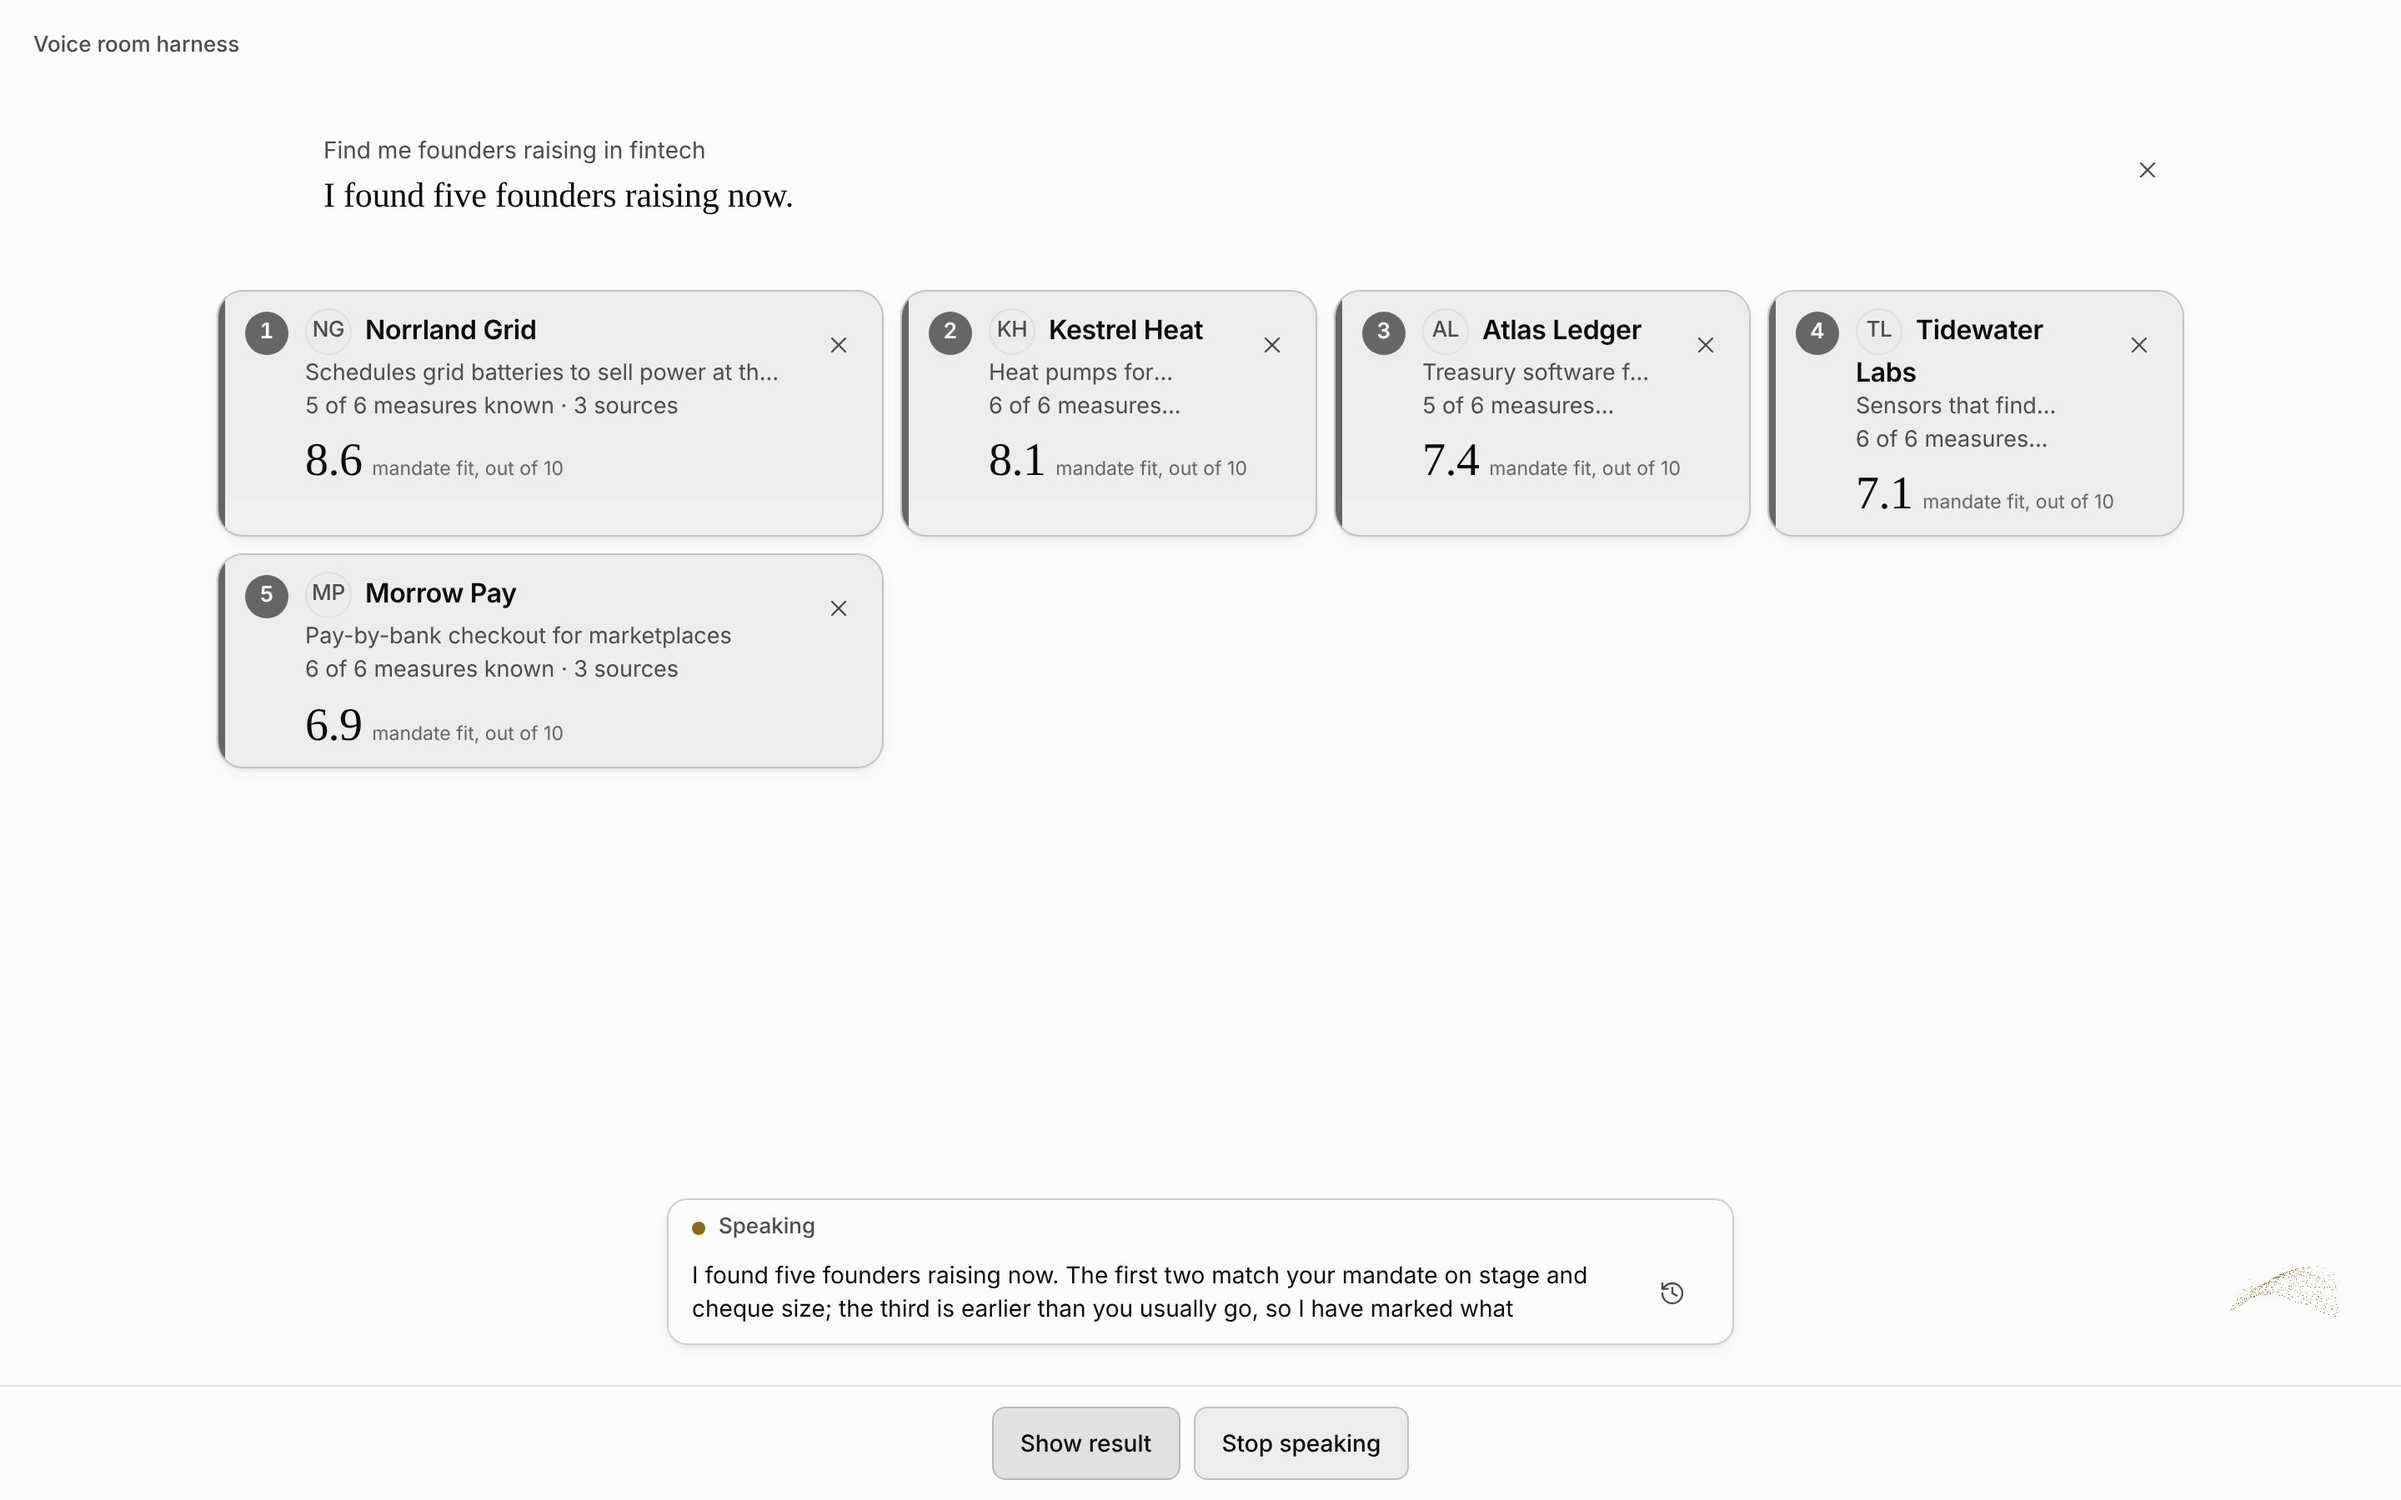
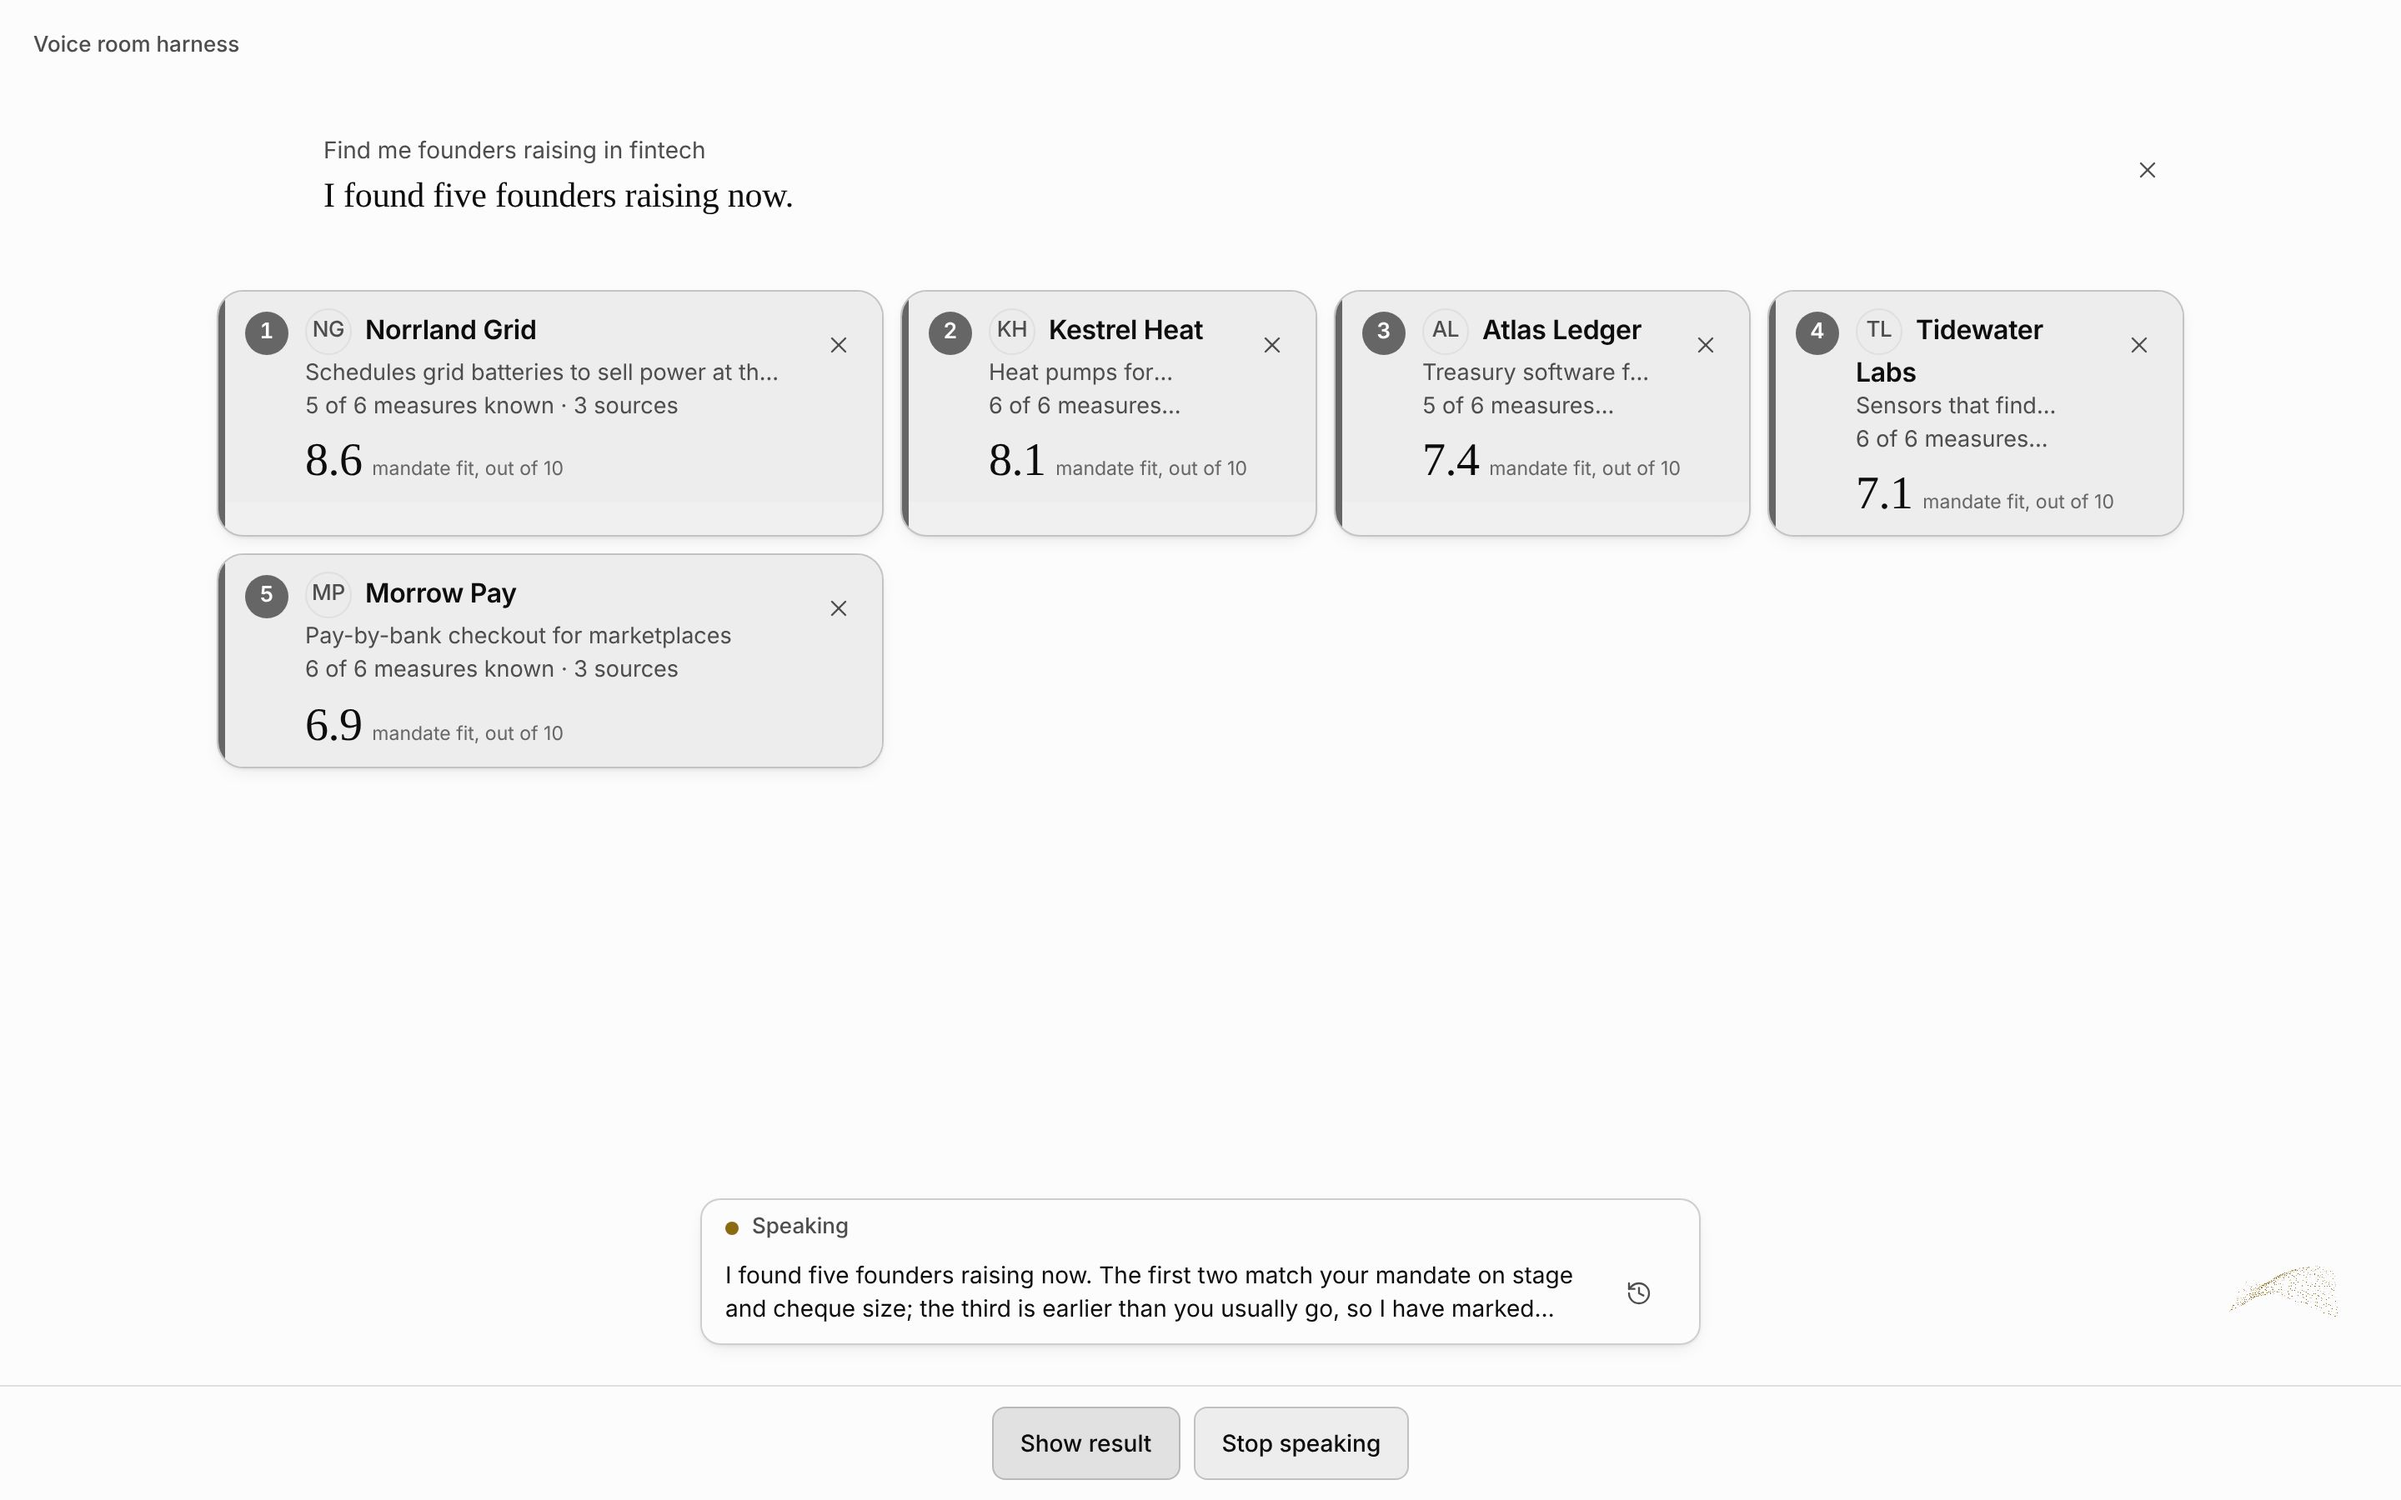
fix(web): voice room phone cards one full column; desktop caption a subtitle (~600 px)
Owner polish on decision 102 (2026-11-17):
- Phone: the voice room's result cards no longer become two-up tiles
  that dropped the one-line description, the measures line and the
  "mandate fit, out of 10" label. VoiceRoom provides FullCardsContext;
  canvasLayout(count, wide, fullCards) then never makes tiles, so each
  card is full width with its words, like desktop. Close and the card's
  own button stay >= 44 px. Elsewhere (Q page, pane) unchanged.
- Desktop: the floating caption's max width is 37.5rem (~600 px, was
  40rem), centred at the bottom; Q's corner presence, the measured
  overlay reserve and the phone caption (full width minus gutters,
  clear of Q) unchanged.
Tests: e2e voice-room-layout.spec.ts (phone single column with line,
measures and label visible, 44 px targets; caption <= 600 px and centred
on desktop, full width and clear of Q on phone; axe light/dark), vitest
answer-canvas.test.tsx and voice-room-layout.test.tsx. after-* evidence
re-taken (1440x900 and 390x844, light/dark, scale 2).

Claude-Session: https://claude.ai/code/session_01Wncmn73d4XJWmh1N9ECao7

Changed region(s): [[0.2812, 0.8089, 0.6562, 0.9022], [0.9375, 0.84, 0.9688, 0.8711]]

diff --git a/apps/web/e2e/voice-room-layout.spec.ts b/apps/web/e2e/voice-room-layout.spec.ts
@@ -194,6 +194,77 @@ test("at the end of the stage the last card's buttons sit clear of the overlay",
   expect(hit).toBe(true);
 });
 
+test("phone: the cards are one full-width column and keep their words", async ({
+  page,
+}, info) => {
+  test.skip(info.project.name !== "phone", "phone layout");
+  await open(page, "?speaking=1", "light");
+  await showResult(page);
+  const content = await boxOf(page, "[data-q-voice-content]");
+  const cards = page.locator("[data-q-voice-content] [data-ac-card]");
+  const count = await cards.count();
+  expect(count).toBeGreaterThanOrEqual(4);
+  // Owner 2026-11-17: never two-up tiles in the voice room.
+  await expect(page.locator("[data-q-voice-content] [data-tiles]")).toHaveCount(
+    0,
+  );
+  for (let n = 0; n < count; n += 1) {
+    const card = cards.nth(n);
+    const box = await card.boundingBox();
+    if (box === null) throw new Error(`no box for card ${String(n)}`);
+    expect(box.width, `card ${String(n)} width`).toBeGreaterThan(
+      content.width - 2,
+    );
+    // Its one-line description, the measures line and the score label.
+    await expect(card.locator(".cq-ac-line").first()).toBeVisible();
+    await expect(
+      card.locator(".cq-ac-line", { hasText: "of 6 measures known" }),
+    ).toBeVisible();
+    await expect(card.locator(".cq-ac-score .of")).toHaveText(
+      "mandate fit, out of 10",
+    );
+    await expect(card.locator(".cq-ac-score .of")).toBeVisible();
+    // Targets stay at least 44 px: the card's own button and its close.
+    const main = await card.locator(".cq-ac-head-main").boundingBox();
+    const close = await card.locator(".cq-ac-x").first().boundingBox();
+    if (main === null || close === null) throw new Error("no target box");
+    expect(main.height).toBeGreaterThanOrEqual(44);
+    expect(close.width).toBeGreaterThanOrEqual(44);
+    expect(close.height).toBeGreaterThanOrEqual(44);
+  }
+  // One column: every card starts at the same x.
+  const xs = await cards.evaluateAll((elements) =>
+    elements.map((element) => Math.round(element.getBoundingClientRect().x)),
+  );
+  expect(new Set(xs).size).toBe(1);
+});
+
+test("the caption reads like a subtitle: about 600 px, centred, clear of Q", async ({
+  page,
+}, info) => {
+  await open(page, "?speaking=1", "light");
+  await showResult(page);
+  // Let the caption grow to its two lines.
+  await page.waitForTimeout(3000);
+  const caption = await boxOf(page, "[data-q-voice-caption]");
+  const presence = await boxOf(page, "[data-q-voice-presence-box]");
+  const stage = await boxOf(page, "[data-q-voice-stage-body]");
+  expect(overlaps(caption, presence)).toBe(false);
+  if (info.project.name === "desktop") {
+    expect(caption.width).toBeLessThanOrEqual(601);
+    expect(caption.width).toBeGreaterThan(400);
+    // Centred at the bottom (the corner presence's reserve shifts it a little).
+    const middle = caption.x + caption.width / 2;
+    const stageMiddle = stage.x + stage.width / 2;
+    expect(Math.abs(middle - stageMiddle)).toBeLessThanOrEqual(48);
+  } else {
+    // Phone: the full width left of Q, minus the gutters.
+    expect(caption.x).toBeGreaterThanOrEqual(stage.x + 16);
+    expect(caption.x).toBeLessThanOrEqual(stage.x + 24);
+    expect(caption.x + caption.width).toBeLessThanOrEqual(presence.x);
+  }
+});
+
 test("the voice room passes axe (WCAG 2.2 AA), light and dark", async ({
   page,
 }) => {

diff --git a/apps/web/src/features/q/answer-canvas-logic.ts b/apps/web/src/features/q/answer-canvas-logic.ts
@@ -1,3 +1,5 @@
+import { createContext } from "react";
+
 import type {
   QAnswerCard,
   QAnswerCardLevel,
@@ -27,14 +29,23 @@ export type CanvasLayout = {
  * focused card beside a grid of the rest (live 23 Oct: five in a row left
  * the rest about 170px wide, names broke mid-word). Phone: one column; from four
  * cards, the rest become half-width tiles so the focused card is never
- * pushed off a 390px screen.
+ * pushed off a 390px screen. In the voice room (owner 2026-11-17) the
+ * cards are the whole stage, so a phone shows them as one full-width
+ * column instead: each keeps its line, measures and "out of 10" label.
  */
-export function canvasLayout(count: number, wide: boolean): CanvasLayout {
+export function canvasLayout(
+  count: number,
+  wide: boolean,
+  fullCards = false,
+): CanvasLayout {
   return {
     layout: wide && count > 4 ? "grid" : "row",
-    tiles: !wide && count >= 4,
+    tiles: !wide && count >= 4 && !fullCards,
   };
 }
+
+/** True where cards should never shrink to phone tiles (the voice room). */
+export const FullCardsContext = createContext(false);
 
 /** How a measure's level reads: a word, always beside its shape. */
 export const LEVEL_WORD: Readonly<Record<QAnswerCardLevel, string>> = {

diff --git a/apps/web/test/voice-room-layout.test.tsx b/apps/web/test/voice-room-layout.test.tsx
@@ -1,7 +1,9 @@
 // @vitest-environment jsdom
 import { cleanup, render } from "@testing-library/react";
+import { useContext } from "react";
 import { afterEach, beforeEach, describe, expect, it, vi } from "vitest";
 
+import { FullCardsContext } from "@/features/q/answer-canvas-logic";
 import { QCurrentExchange } from "@/features/q/q-current-exchange";
 import { VoiceRoom } from "@/features/q/voice-room-layout";
 
@@ -88,6 +90,22 @@ describe("the voice room once Q shows something (decision 102)", () => {
     expect(element?.style.getPropertyValue("--cq-voice-presence-w")).toBe(
       "72px",
     );
+  });
+
+  it("tells its cards never to become phone tiles (owner 2026-11-17)", () => {
+    function Probe() {
+      return <div data-full-cards={String(useContext(FullCardsContext))} />;
+    }
+    render(
+      <VoiceRoom compact resultKey={null} aside={null}>
+        <Probe />
+      </VoiceRoom>,
+    );
+    expect(
+      document
+        .querySelector("[data-full-cards]")
+        ?.getAttribute("data-full-cards"),
+    ).toBe("true");
   });
 
   it("with nothing shown it reserves nothing", () => {

diff --git a/apps/web/src/features/q/answer-canvas.tsx b/apps/web/src/features/q/answer-canvas.tsx
@@ -4,6 +4,7 @@ import "./answer-canvas.css";
 
 import { AnimatePresence, LazyMotion, m, useReducedMotion } from "motion/react";
 import {
+  useContext,
   useLayoutEffect,
   useRef,
   useState,
@@ -34,6 +35,7 @@ import {
 import {
   canvasLayout,
   comparesAsTable,
+  FullCardsContext,
   compareRows,
   fitNumber,
   fitExplanation,
@@ -979,7 +981,8 @@ export function AnswerCanvas({
     answerCardRef(answerKey ?? block.title, card),
   );
   const shown = unhidden.filter((card) => dismissed?.has(card.key) !== true);
-  const { layout, tiles } = canvasLayout(shown.length, wide);
+  const fullCards = useContext(FullCardsContext);
+  const { layout, tiles } = canvasLayout(shown.length, wide, fullCards);
   const table = comparesAsTable(block) && shown.length === block.cards.length;
   const spotKey = spotlight === null ? undefined : block.cards[spotlight]?.key;
   const spotCard = shown.find((card) => card.key === spotKey);

diff --git a/apps/web/src/features/q/voice-room-layout.tsx b/apps/web/src/features/q/voice-room-layout.tsx
@@ -22,6 +22,7 @@ import { createLevelEnvelope } from "@/features/q-aperture/level-envelope";
 import { useQMotion } from "@/features/q-aperture";
 import { useT } from "@/features/i18n/language";
 
+import { FullCardsContext } from "./answer-canvas-logic";
 import { resultCue, scrollerOf, type ResultCue } from "./follow-newest";
 
 /**
@@ -342,7 +343,10 @@ export function VoiceRoom({
           className="flex w-full min-w-0 flex-col items-center gap-4"
           data-q-voice-content
         >
-          {children}
+          {/* The cards are the stage here: never phone tiles (owner 11-17). */}
+          <FullCardsContext.Provider value={true}>
+            {children}
+          </FullCardsContext.Provider>
         </div>
         {cue === null ? null : (
           <button

diff --git a/apps/web/test/answer-canvas.test.tsx b/apps/web/test/answer-canvas.test.tsx
@@ -90,6 +90,13 @@ describe("layout for 1, 3, 5 and 10 cards (C1)", () => {
     ]);
   });
 
+  it("never makes tiles in the voice room: a phone shows one full column", () => {
+    expect(
+      [1, 3, 5, 10].map((n) => canvasLayout(n, false, true).tiles),
+    ).toEqual([false, false, false, false]);
+    expect(canvasLayout(5, true, true).layout).toBe("grid");
+  });
+
   it("shows a comparison with shared measures as one table", () => {
     expect(comparesAsTable(DEMO_COMPARE)).toBe(true);
     expect(comparesAsTable(demoTop(3))).toBe(false);

diff --git a/apps/web/app/globals.css b/apps/web/app/globals.css
@@ -6020,7 +6020,9 @@
     0px,
     calc(var(--cq-voice-presence-w, 48px) + 12px - var(--cq-voice-bleed, 0px))
   );
-  max-width: 40rem;
+  /* A subtitle's measure (owner 2026-11-17): about 600 px on desktop; a
+     phone's narrower stage keeps it full width minus the gutters. */
+  max-width: 37.5rem;
   margin-inline: auto;
   display: flex;
   flex-direction: column;
